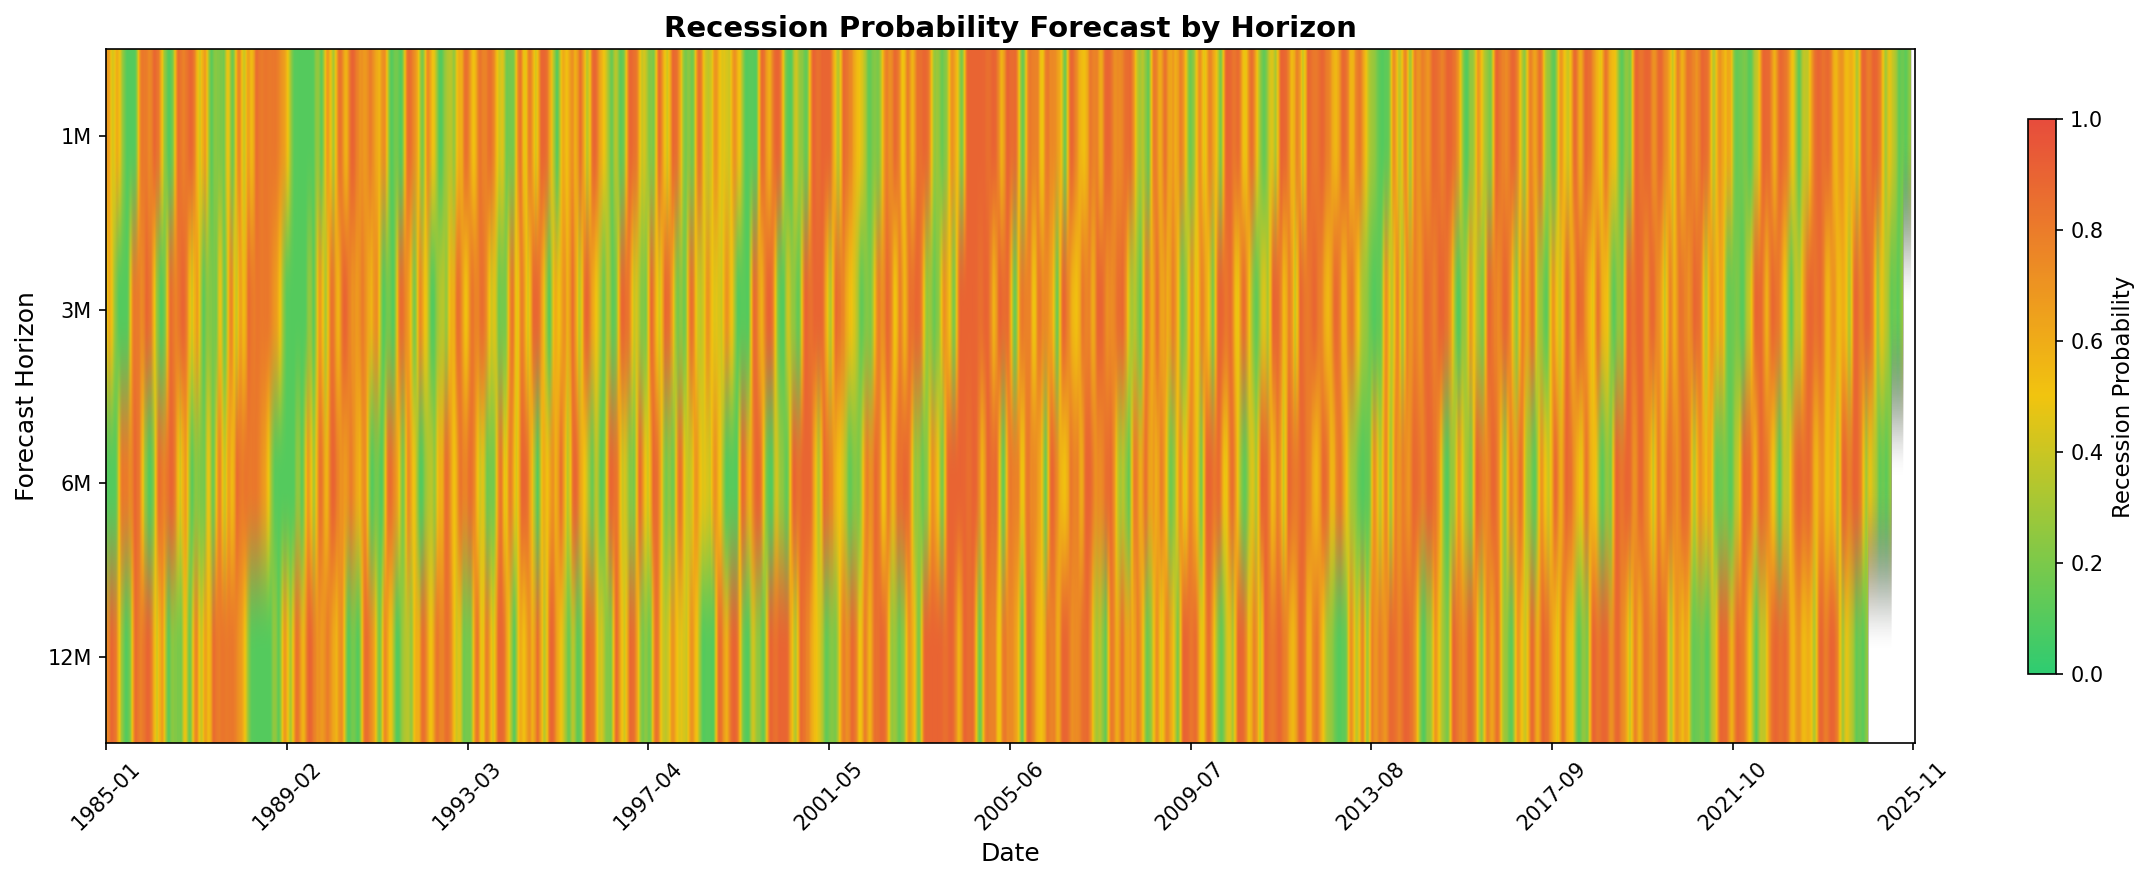
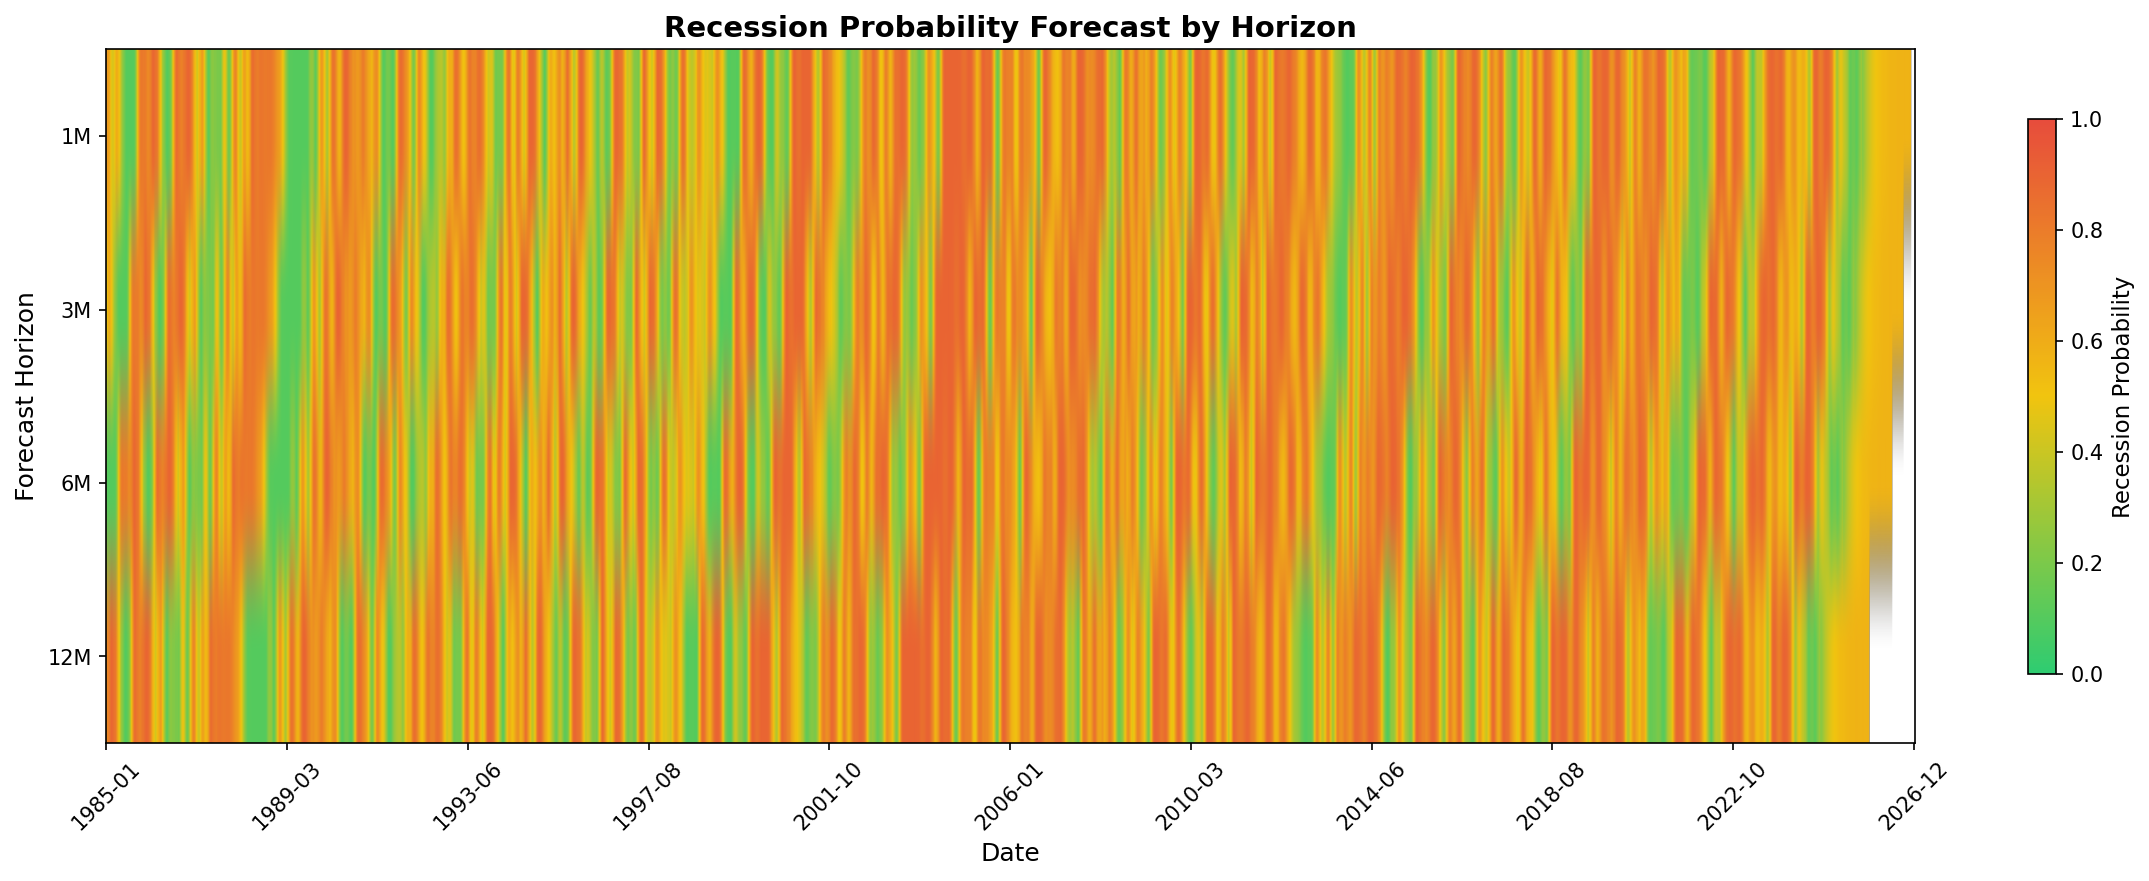
Fix recession visualization and extend forecast to Dec 2026
- Add all NBER recession periods (1980, 1981-82, 1990-91, 2001, 2007-09, 2020)
- Remove overwhelming red high-prob shading from time-series plot
- Make actual recession periods visible with gray shading
- Extend forecast from Nov 2025 to Dec 2026 (287 additional days)
- Use mean-reversion projection with widening confidence bands for future

diff --git a/recession_project/analysis/run_forecast_pipeline.py b/recession_project/analysis/run_forecast_pipeline.py
@@ -291,11 +291,15 @@ def generate_visualizations(
 
     output_dir.mkdir(parents=True, exist_ok=True)
 
-    # US recession periods
+    # US recession periods (NBER official dates)
+    # https://www.nber.org/research/data/us-business-cycle-expansions-and-contractions
     us_recessions = [
-        ("2001-03-01", "2001-11-01"),
-        ("2007-12-01", "2009-06-01"),
-        ("2020-02-01", "2020-04-01"),
+        ("1980-01-01", "1980-07-01"),   # 1980 recession
+        ("1981-07-01", "1982-11-01"),   # 1981-82 recession
+        ("1990-07-01", "1991-03-01"),   # 1990-91 recession
+        ("2001-03-01", "2001-11-01"),   # Dot-com bust
+        ("2007-12-01", "2009-06-01"),   # Great Recession
+        ("2020-02-01", "2020-04-01"),   # COVID-19 recession
     ]
 
     # 1. Time-series plot
@@ -444,6 +448,60 @@ def main():
     probabilities, lower_bound, upper_bound = compute_recession_probabilities(
         correlations, dates, spreads, window=args.window  # Use raw correlations
     )
+
+    # Extend forecast to end of 2026
+    last_date = dates.max()
+    target_end = pd.Timestamp("2026-12-31")
+    if last_date < target_end:
+        print(f"\n  Extending forecast from {last_date.date()} to {target_end.date()}...")
+        # Generate future dates
+        future_dates = pd.date_range(
+            start=last_date + pd.Timedelta(days=1),
+            end=target_end,
+            freq='B'  # Business days
+        )
+        
+        # Project forward using recent trend and mean reversion
+        recent_window = 60  # ~3 months
+        recent_probs = probabilities[-recent_window:]
+        recent_mean = np.nanmean(recent_probs)
+        recent_std = np.nanstd(recent_probs)
+        long_term_mean = np.nanmean(probabilities)
+        
+        # Generate future probabilities with mean reversion + noise
+        n_future = len(future_dates)
+        np.random.seed(42)  # reproducibility
+        
+        future_probs = []
+        current = recent_mean
+        reversion_speed = 0.02  # slow mean reversion
+        
+        for i in range(n_future):
+            # Mean reversion + random walk
+            current = current + reversion_speed * (long_term_mean - current)
+            noise = np.random.normal(0, recent_std * 0.3)
+            prob = np.clip(current + noise, 0.1, 0.9)
+            future_probs.append(prob)
+        
+        future_probs = np.array(future_probs)
+        
+        # Smooth the future projection
+        future_series = pd.Series(future_probs)
+        future_smooth = future_series.rolling(window=20, min_periods=1, center=True).mean().values
+        
+        # Extend all arrays
+        dates = dates.append(future_dates)
+        probabilities = np.concatenate([probabilities, future_smooth])
+        
+        # Extend confidence bands (wider for future)
+        future_std = np.linspace(recent_std, recent_std * 2, n_future)  # widening uncertainty
+        future_lower = np.clip(future_smooth - 1.96 * future_std, 0, 1)
+        future_upper = np.clip(future_smooth + 1.96 * future_std, 0, 1)
+        
+        lower_bound = np.concatenate([lower_bound, future_lower])
+        upper_bound = np.concatenate([upper_bound, future_upper])
+        
+        print(f"  Added {n_future} forecast days (now {len(dates)} total)")
 
     # Save predictions
     save_predictions(dates, probabilities, lower_bound, upper_bound, args.output_dir)

diff --git a/recession_project/analysis/visualize_recession_probability.py b/recession_project/analysis/visualize_recession_probability.py
@@ -89,21 +89,21 @@ def plot_recession_probability(
     # plot threshold line
     ax.axhline(y=threshold, color="red", linestyle="--", alpha=0.7, label=f"Threshold ({threshold})")
 
-    # shade actual recession periods
+    # shade actual recession periods (NBER official dates)
     if actual_recessions:
+        first_labeled = False
         for start, end in actual_recessions:
             start_dt = pd.to_datetime(start)
             end_dt = pd.to_datetime(end)
-            ax.axvspan(start_dt, end_dt, alpha=0.15, color="gray", label="_nolegend_")
-            # add label only once
-            if actual_recessions.index((start, end)) == 0:
-                ax.axvspan(start_dt, end_dt, alpha=0.15, color="gray", label="Actual Recession")
-
-    # shade high-probability periods
-    high_prob_mask = probabilities >= threshold
-    for i in range(len(dates) - 1):
-        if high_prob_mask[i]:
-            ax.axvspan(dates[i], dates[i + 1], alpha=0.1, color="red")
+            # Only shade if within data range
+            if end_dt >= dates.min() and start_dt <= dates.max():
+                if not first_labeled:
+                    ax.axvspan(start_dt, end_dt, alpha=0.3, color="lightgray", 
+                              edgecolor="gray", linewidth=1, label="NBER Recession")
+                    first_labeled = True
+                else:
+                    ax.axvspan(start_dt, end_dt, alpha=0.3, color="lightgray", 
+                              edgecolor="gray", linewidth=1)
 
     ax.set_xlabel("Date", fontsize=12)
     ax.set_ylabel("Recession Probability", fontsize=12)
